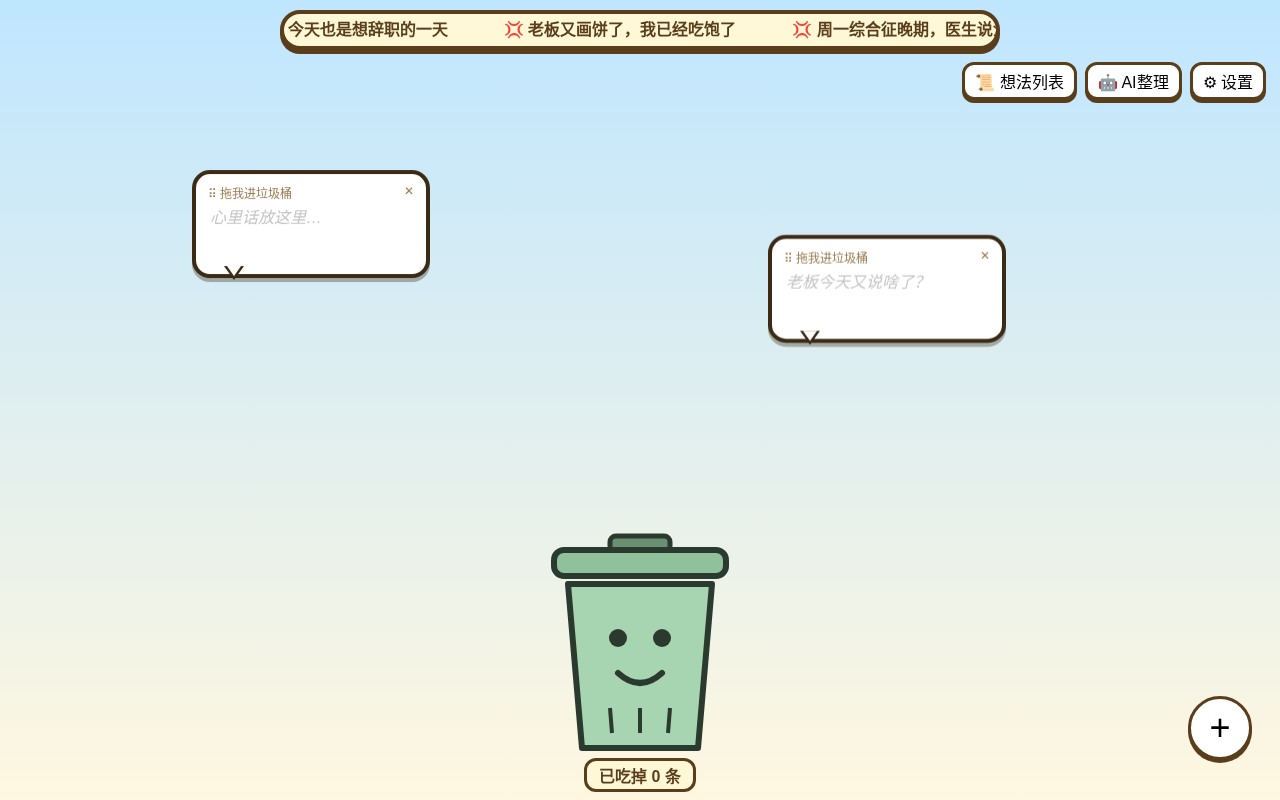
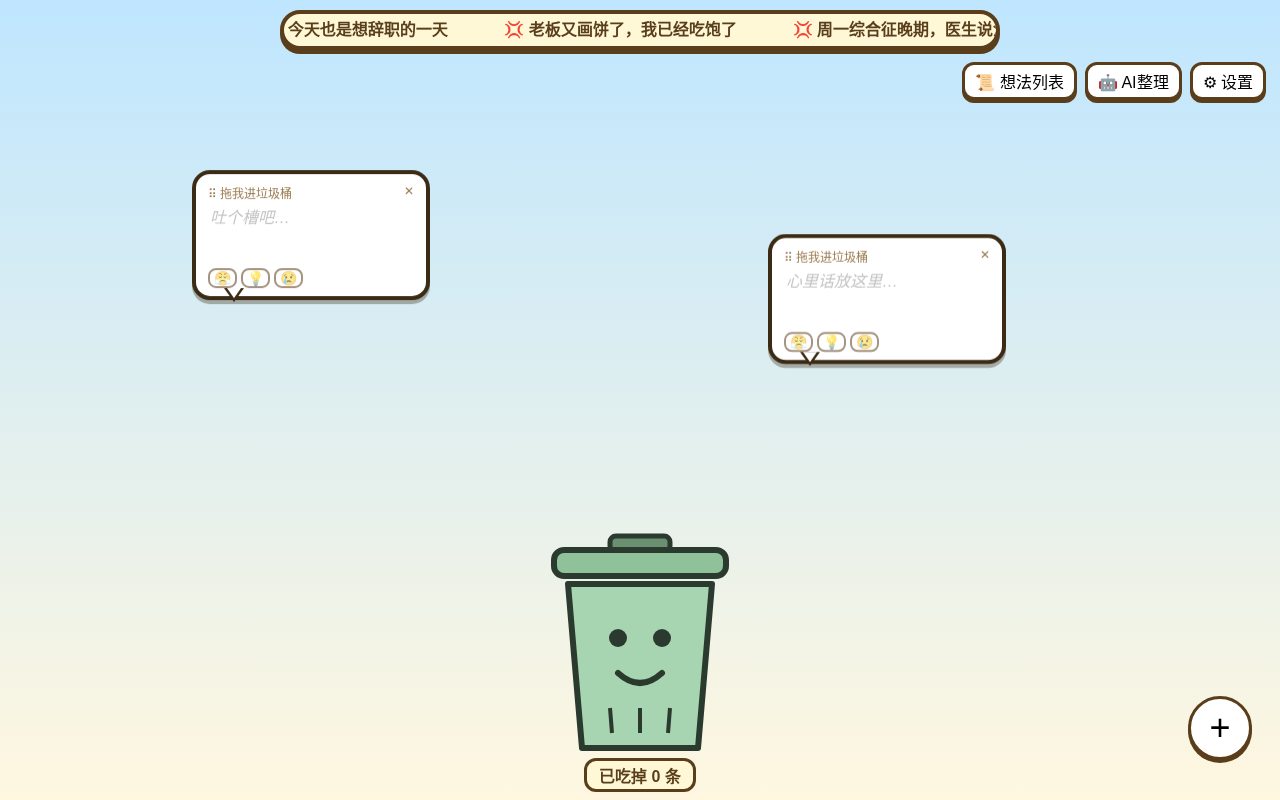
心情标签：对话框选标签、随 .md 保存、纸片按标签着色、列表按标签筛选

diff --git a/js/list.js b/js/list.js
@@ -1,19 +1,22 @@
 // 侧边栏：想法列表（按时间、搜索、删除、勾选用于 AI 整理）
+import { TAGS, tagLabel } from './tags.js';
 import { listNotes, deleteNote, fmtFull, exportAll } from './storage.js';
 export const selected = new Set();
 const esc = s => s.replace(/[&<>"]/g, c => ({ '&': '&amp;', '<': '&lt;', '>': '&gt;', '"': '&quot;' }[c]));
 export async function renderList(body, onChange) {
   body.innerHTML = `<input type="search" id="search" placeholder="搜索想法…">
+    <select id="tag-filter"><option value="">全部标签</option>${Object.entries(TAGS).map(([k, t]) => `<option value="${k}">${t.emoji} ${t.name}</option>`).join('')}<option value="none">无标签</option></select>
     <div class="row"><button id="sel-all">全选</button><button id="sel-none">全不选</button><button id="export">导出全部 .md</button></div>
     <div id="items"></div>`;
   const notes = await listNotes();
   const items = body.querySelector('#items');
   const draw = q => {
-    const f = notes.filter(n => !q || n.text.toLowerCase().includes(q.toLowerCase()));
+    const tf = body.querySelector('#tag-filter').value;
+    const f = notes.filter(n => (!q || n.text.toLowerCase().includes(q.toLowerCase())) && (!tf || (tf === 'none' ? !n.tag : n.tag === tf)));
     items.innerHTML = f.length ? '' : '<p>还没有想法，或没有搜到～</p>';
     f.forEach(n => {
       const d = document.createElement('div'); d.className = 'note-item';
-      d.innerHTML = `<input type="checkbox" ${selected.has(n.id) ? 'checked' : ''}><div class="txt"><time>${fmtFull(n.createdAt)}${n.inFolder ? ' · 📁' : ''}</time>${esc(n.text)}</div><button title="删除">🗑</button>`;
+      d.innerHTML = `<input type="checkbox" ${selected.has(n.id) ? 'checked' : ''}><div class="txt"><time>${fmtFull(n.createdAt)}${n.inFolder ? ' · 📁' : ''} · ${tagLabel(n.tag)}</time>${esc(n.text)}</div><button title="删除">🗑</button>`;
       d.querySelector('input').onchange = e => e.target.checked ? selected.add(n.id) : selected.delete(n.id);
       d.querySelector('button').onclick = async () => {
         if (!confirm('确定删除这条想法吗？')) return;
@@ -24,6 +27,7 @@ export async function renderList(body, onChange) {
   };
   const search = body.querySelector('#search');
   search.oninput = () => draw(search.value);
+  body.querySelector('#tag-filter').onchange = () => draw(search.value);
   body.querySelector('#sel-all').onclick = () => { notes.forEach(n => selected.add(n.id)); draw(search.value); };
   body.querySelector('#sel-none').onclick = () => { selected.clear(); draw(search.value); };
   body.querySelector('#export').onclick = exportAll;

diff --git a/js/storage.js b/js/storage.js
@@ -30,7 +30,7 @@ export const pad = n => String(n).padStart(2, '0');
 export function fmtShort(ts) { const d = new Date(ts); return `${d.getMonth() + 1}月${d.getDate()}日 ${pad(d.getHours())}:${pad(d.getMinutes())}`; }
 export function fmtFull(ts) { const d = new Date(ts); return `${d.getFullYear()}-${pad(d.getMonth() + 1)}-${pad(d.getDate())} ${pad(d.getHours())}:${pad(d.getMinutes())}:${pad(d.getSeconds())}`; }
 function fileName(ts, prefix = '想法') { const d = new Date(ts); return `${prefix}-${d.getFullYear()}${pad(d.getMonth() + 1)}${pad(d.getDate())}-${pad(d.getHours())}${pad(d.getMinutes())}${pad(d.getSeconds())}-${d.getMilliseconds()}.md`; }
-export const noteToMd = n => `# ${fmtFull(n.createdAt)}\n\n${n.text}\n`;
+export const noteToMd = n => `---\ntime: ${fmtFull(n.createdAt)}\ntag: ${n.tag || ''}\n---\n\n# ${fmtFull(n.createdAt)}\n\n${n.text}\n`;
 
 export const supportsFolder = () => 'showDirectoryPicker' in window;
 let dirHandle = null;
@@ -64,9 +64,9 @@ async function writeFile(name, content) {
   } catch (e) { console.warn('写入文件夹失败，已保存在浏览器里', e); return false; }
 }
 
-export async function saveNote(text) {
+export async function saveNote(text, tag = '') {
   const createdAt = Date.now();
-  const note = { id: `${createdAt}-${Math.random().toString(36).slice(2, 7)}`, createdAt, text, file: fileName(createdAt) };
+  const note = { id: `${createdAt}-${Math.random().toString(36).slice(2, 7)}`, createdAt, text, tag, file: fileName(createdAt) };
   note.inFolder = await writeFile(note.file, noteToMd(note));
   await tx('notes', 'readwrite', s => s.put(note));
   return note;
@@ -93,6 +93,6 @@ export function download(name, content) {
 }
 export async function exportAll() {
   const notes = await listNotes();
-  const md = `# 思绪垃圾桶 导出（共 ${notes.length} 条）\n\n` + notes.map(n => `## ${fmtFull(n.createdAt)}\n\n${n.text}\n`).join('\n---\n\n');
+  const md = `# 思绪垃圾桶 导出（共 ${notes.length} 条）\n\n` + notes.map(n => `## ${fmtFull(n.createdAt)}${n.tag ? ' #' + n.tag : ''}\n\n${n.text}\n`).join('\n---\n\n');
   download(fileName(Date.now(), '全部想法'), md);
 }

diff --git a/js/bubbles.js b/js/bubbles.js
@@ -1,3 +1,4 @@
+import { attachTagPicker } from './tags.js';
 // 冒险岛风格漂浮对话框：可输入、可拖动，拖进垃圾桶就保存
 // 空对话框里的淡色提示语（只是 placeholder，永远不会被保存）
 export const HINTS = ['想到啥写啥…', '吐个槽吧…', '心里话放这里…', '老板今天又说啥了？', '脑子里乱糟糟的，倒出来吧…', '一个突发奇想…', '今天最想吐槽的一件事…', '偷偷写，桶不会说出去的～'];
@@ -17,6 +18,7 @@ export function createBubble(x, y) {
   b.style.animationDelay = (-Math.random() * 3).toFixed(2) + 's';
   b.innerHTML = `<div class="grip"><span>⠿ 拖我进垃圾桶</span><span class="close" title="不要了">✕</span></div>
     <textarea placeholder="${HINTS[hintIdx++ % HINTS.length]}"></textarea>`;
+  attachTagPicker(b);
   stage.appendChild(b);
   b.querySelector('.close').addEventListener('click', e => { e.stopPropagation(); b.remove(); });
   b.addEventListener('pointerdown', e => startDrag(e, b));
@@ -38,7 +40,7 @@ function startDrag(e, b) {
     b.classList.remove('dragging'); opts.onHover(false);
     if (!opts.isOverTrash(ev.clientX, ev.clientY)) return;
     const text = b.querySelector('textarea').value.trim(); // 只取用户输入，提示语不在 value 里
-    if (text) return opts.onDrop(b, text);
+    if (text) return opts.onDrop(b, text, b.dataset.tag || '');
     bounceBack(b, startL, startT); opts.onEmpty?.();
   };
   b.addEventListener('pointermove', move); b.addEventListener('pointerup', up);

diff --git a/js/tags.js b/js/tags.js
@@ -1,0 +1,23 @@
+// 心情标签：每个对话框可选一个，随想法一起保存
+export const TAGS = {
+  rant: { emoji: '😤', name: '吐槽', color: '#ffd6d1' },
+  idea: { emoji: '💡', name: '灵感', color: '#fff2b3' },
+  heart: { emoji: '😢', name: '心里话', color: '#d6e8ff' },
+};
+export const tagLabel = t => TAGS[t] ? `${TAGS[t].emoji} ${TAGS[t].name}` : '无标签';
+export const tagColor = t => TAGS[t]?.color || '#fffdf3';
+// 在对话框里放一个小标签选择器，选中的标签记在 bubble.dataset.tag
+export function attachTagPicker(bubble) {
+  const box = document.createElement('div');
+  box.className = 'tag-picker';
+  box.innerHTML = Object.entries(TAGS).map(([k, t]) => `<button type="button" data-tag="${k}" title="${t.name}">${t.emoji}</button>`).join('');
+  box.addEventListener('pointerdown', e => e.stopPropagation());
+  box.addEventListener('click', e => {
+    const k = e.target.closest('button')?.dataset.tag; if (!k) return;
+    e.stopPropagation();
+    bubble.dataset.tag = bubble.dataset.tag === k ? '' : k; // 再点一次取消
+    box.querySelectorAll('button').forEach(b => b.classList.toggle('on', b.dataset.tag === bubble.dataset.tag));
+    bubble.style.background = bubble.dataset.tag ? tagColor(bubble.dataset.tag) : '';
+  });
+  bubble.appendChild(box);
+}

diff --git a/js/easter-eggs.js b/js/easter-eggs.js
@@ -1,5 +1,6 @@
 // 彩蛋：纸片从垃圾桶里爆出来，写着时间和当时的想法
 import { fmtShort } from './storage.js';
+import { tagColor, TAGS } from './tags.js';
 const esc = s => s.replace(/[&<>"]/g, c => ({ '&': '&amp;', '<': '&lt;', '>': '&gt;', '"': '&quot;' }[c]));
 export function explode(notes, origin) {
   document.querySelectorAll('.scrap').forEach(s => s.remove());
@@ -7,7 +8,8 @@ export function explode(notes, origin) {
   list.forEach((n, i) => {
     const s = document.createElement('div');
     s.className = 'scrap';
-    s.innerHTML = `<time>${fmtShort(n.createdAt)}</time>${esc(n.text.length > 80 ? n.text.slice(0, 80) + '…' : n.text)}`;
+    s.style.background = tagColor(n.tag); if (n.tag) s.dataset.tag = n.tag;
+    s.innerHTML = `<time>${TAGS[n.tag]?.emoji || ''} ${fmtShort(n.createdAt)}</time>${esc(n.text.length > 80 ? n.text.slice(0, 80) + '…' : n.text)}`;
     s.style.left = origin.x - 90 + 'px'; s.style.top = origin.y + 'px';
     s.style.transform = 'scale(.2)'; s.style.opacity = '0';
     document.body.appendChild(s);

diff --git a/js/main.js b/js/main.js
@@ -15,9 +15,9 @@ trash.initTrash({ onBurst: async () => explode(await store.listNotes(), trash.tr
 initBubbles($('#stage'), {
   isOverTrash: trash.isOverTrash, onHover: trash.setHover,
   onEmpty: () => toast('空的对话框，桶不吃哦～先写点什么吧'),
-  onDrop: async (b, text) => {
+  onDrop: async (b, text, tag) => {
     b.remove(); trash.chew();
-    try { const n = await store.saveNote(text); trash.increment(); toast(n.inFolder ? '嚼嚼嚼…已存进文件夹 📁' : '嚼嚼嚼…已存在浏览器里'); refreshPanel(); }
+    try { const n = await store.saveNote(text, tag); trash.increment(); toast(n.inFolder ? '嚼嚼嚼…已存进文件夹 📁' : '嚼嚼嚼…已存在浏览器里'); refreshPanel(); }
     catch (e) { console.error(e); toast('保存失败：' + e.message); }
   },
 });

diff --git a/css/style.css b/css/style.css
@@ -47,3 +47,8 @@ pre.result{white-space:pre-wrap;background:#fff;border:2px solid #ddd;padding:8p
 .bubble textarea::placeholder{color:#9e9e9e;opacity:.6;font-style:italic}
 .bubble textarea:focus::placeholder{opacity:.35}
 .bubble.bounce{transition:left .5s cubic-bezier(.34,1.56,.64,1),top .5s cubic-bezier(.34,1.56,.64,1)}
+
+.tag-picker{display:flex;gap:4px;margin-top:2px}
+.tag-picker button{padding:0 4px;font-size:14px;border-width:2px;box-shadow:none;border-radius:8px;opacity:.55;background:transparent}
+.tag-picker button.on{opacity:1;background:#fff;border-color:#c0392b}
+#tag-filter{font:inherit;padding:4px;border:2px solid #5a3e1b;border-radius:8px}
